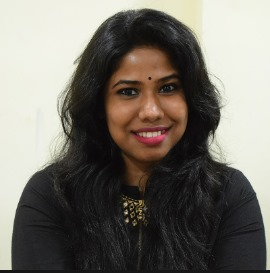
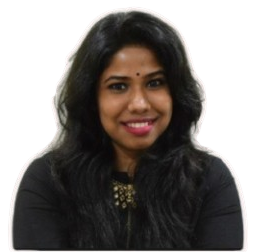
lead changes

diff --git a/src/components/Leads/bottom.js b/src/components/Leads/bottom.js
@@ -1,29 +1,30 @@
-import React from 'react'
+import React from "react";
 import { FaInstagram } from "react-icons/fa6";
 import { LuLinkedin } from "react-icons/lu";
 import { FiGithub } from "react-icons/fi";
 export default function Bottom({ instagram, gamil, linkedin }) {
-    return (
-        <div className="socialMedia_bx flex justify-center items-center ">
-            <div className="wrapper flex justify-center items-center gap-4 text-2xl"
-            // style={{ transform: `scaleY(${scaleY})`, transition: 'transform 0.5s ease' }}
-            >
-                <div className="box">
-                    <a target='_blank' href={instagram}>
-                        <FaInstagram className='icon' />
-                    </a>
-                </div>
-                <div className="box">
-                    <a target='_blank' href={linkedin}>
-                        <LuLinkedin className='icon' />
-                    </a>
-                </div>
-                <div className="box">
-                    <a target='_blank' href={gamil}>
-                        <FiGithub className='icon' />
-                    </a>
-                </div>
-            </div>
+  return (
+    <div className="socialMedia_bx flex justify-center items-center ">
+      <div
+        className="wrapper flex justify-center items-center gap-4 text-2xl"
+        // style={{ transform: `scaleY(${scaleY})`, transition: 'transform 0.5s ease' }}
+      >
+        <div className="box">
+          <a target="_blank" href={instagram}>
+            <FaInstagram className="icon" />
+          </a>
         </div>
-    )
+        <div className="box">
+          <a target="_blank" href={linkedin}>
+            <LuLinkedin className="icon" />
+          </a>
+        </div>
+        <div className="box bg-black">
+          <a target="_blank" href={gamil}>
+            <FiGithub className="icon" />
+          </a>
+        </div>
+      </div>
+    </div>
+  );
 }

diff --git a/src/components/Leads/style.css b/src/components/Leads/style.css
@@ -1,44 +1,42 @@
-.card{
-    background: #161515;
-    border-radius: 15px;
-    height: 280px;
-    overflow: hidden;
-    border: 1px solid transparent;
-    margin: 25px 17px;
-   transition: cubic-bezier(0.075, 0.82, 0.165, 1);
-   
+.card {
+  background: #161515;
+  border-radius: 15px;
+  height: 280px;
+  overflow: hidden;
+  border: 1px solid transparent;
+  margin: 25px 17px;
+  transition: cubic-bezier(0.075, 0.82, 0.165, 1);
 }
-.des_bx{
-    height: 230px;
+.des_bx {
+  height: 230px;
 }
 
-.socialMedia_bx .wrapper{
-    width: 100%;
-    height: 50px;
-    background: rgb(255 255 255 / 65%);
-    position: relative;
-   transform: scaleY(0);
+.socialMedia_bx .wrapper {
+  width: 100%;
+  height: 50px;
+  /* background: rgba(217, 217, 217, 0.1); */
+  position: relative;
+  /* transform: scaleY(0);
    transition: all;
    transition-duration: 500ms;
-   transform-origin: bottom;
+   transform-origin: bottom; */
 }
-.card .box{
-    cursor: pointer;
+.card .box {
+  cursor: pointer;
 }
-.card:hover{
-    border: 1px solid white;
-   box-shadow:0px -1px 20px 11px #ffa5005e;
-
+.card:hover {
+  border: 1px solid white;
+  box-shadow: 0px -1px 20px 11px #ffa5005e;
 }
-.socialMedia_bx:hover{
-   transform: scaleY(1);
-} 
- .card:hover .socialMedia_bx .wrapper{
-    transform: scaleY(1);
-} 
-.icon:hover  {
-    transform: scale(.95);
-} 
+.socialMedia_bx:hover {
+  transform: scaleY(1);
+}
+.card:hover .socialMedia_bx .wrapper {
+  transform: scaleY(1);
+}
+.icon:hover {
+  transform: scale(0.95);
+}
 .main_slider_wrapper .swiper-slide {
-    /* margin: 0 !important; */
+  /* margin: 0 !important; */
 }

diff --git a/src/data/lead_data.js b/src/data/lead_data.js
@@ -5,12 +5,13 @@ const LeadData = [
     name: "Atri Bandyopadhyay",
     postion: "Coordinator & UiPath Automation Tools",
     instagram: "https://www.instagram.com/atriclicky?igsh=enQwdG5xNmNqdDNv",
+    instagram: "https://www.instagram.com/atriclicky?igsh=enQwdG5xNmNqdDNv",
     gamil: "atricc03@gmail.com",
     linkedin: "https://www.linkedin.com/in/atri-/",
   },
   {
     index: 3,
-    src: require("../assets/images/leads/saptak.jpg"),
+    src: require("../assets/images/leads/saptak.png"),
     name: "Saptak Das",
     postion: "Vice-Coordinator & Photography",
     instagram: "https://www.instagram.com/s.saptak6?igsh=aWNuMHRyY2F4Z2Ni",
@@ -47,7 +48,7 @@ const LeadData = [
   },
   {
     index: 7,
-    src: require("../assets/images/leads/disha.jpg"),
+    src: require("../assets/images/leads/disha.png"),
     name: "M Disha",
     postion: "Associate Coordinator & RPA & AI",
     instagram:

diff --git a/src/components/Leads/leadsSlider.js b/src/components/Leads/leadsSlider.js
@@ -74,8 +74,8 @@ export default function LeadSlider() {
         {lead_data.map((item, index) => (
           <SwiperSlide key={index}>
             <div className="card ">
-              <div className="des_bx pt-5 flex justify-center items-center flex-col gap-2  text-center">
-                <div className="photo w-[100px] h-[100px] rounded-full bg-white overflow-hidden">
+              <div className="des_bx py-5 flex justify-center items-center flex-col gap-2  text-center">
+                <div className="photo w-[100px] h-[100px] rounded-full overflow-hidden">
                   <img
                     src={item.src}
                     alt="profile_img"

diff --git a/src/components/Advisory/index.js b/src/components/Advisory/index.js
@@ -73,7 +73,7 @@ export default function Advisory() {
               transition={{ duration: 0.5, delay: item.delay }}
               className="lg:w-3/12 md:w-4/12 sm:w-6/12 w-full wrapper px-7"
             >
-              <div className="image w-full rounded-md h-[210px] overflow-hidden bg-slate-300">
+              <div className="image w-full rounded-md h-[300px] overflow-hidden ">
                 <img src={item.src} className="w-full h-full" alt="img" />
               </div>
               <div className="name text-center my-2 text-xl">{item.name}</div>
